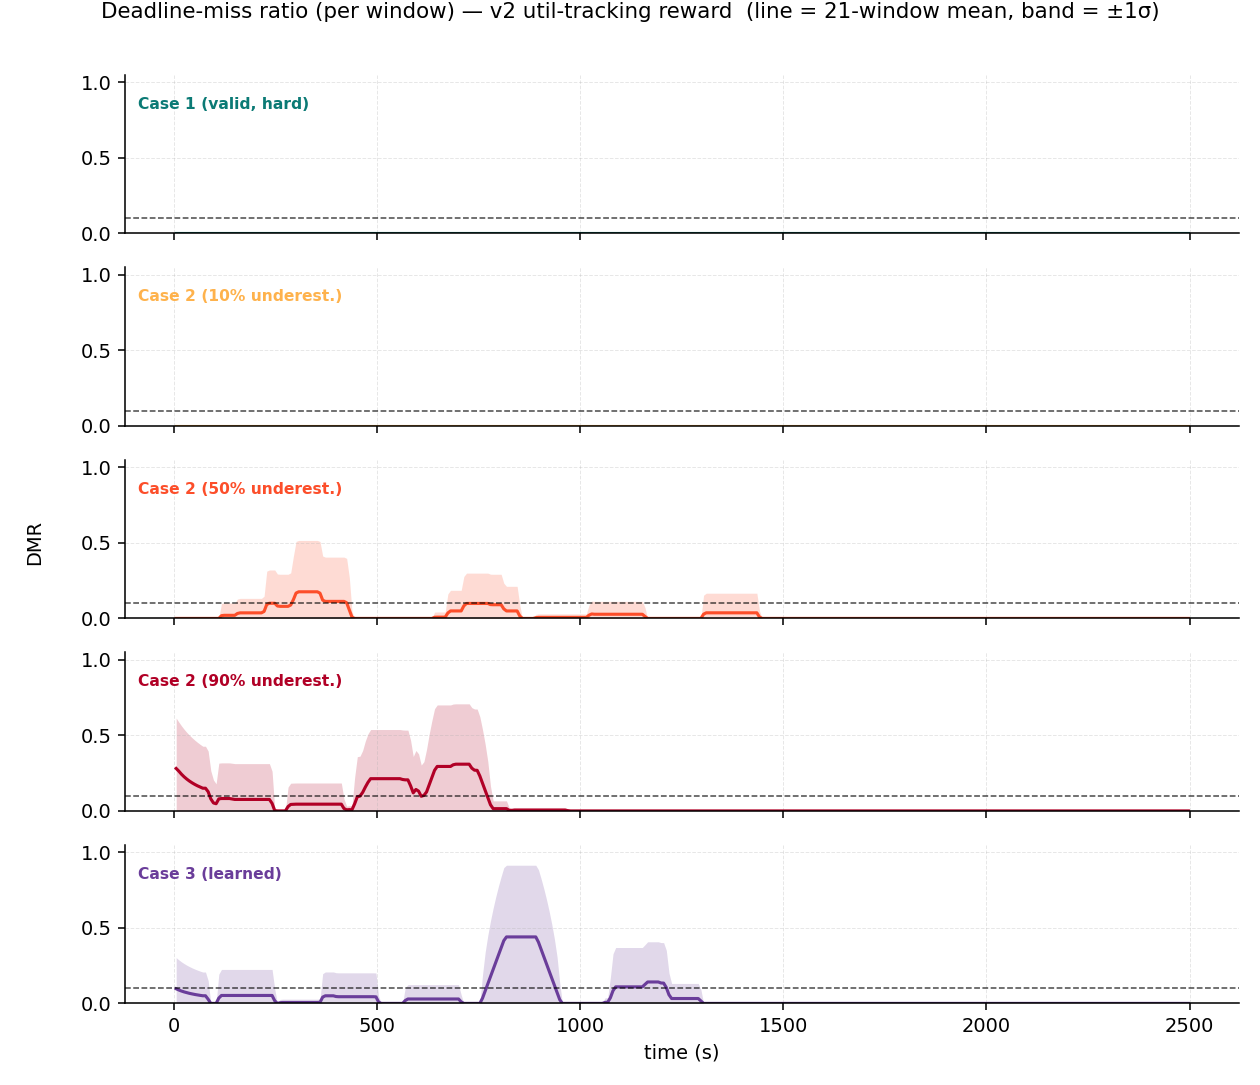
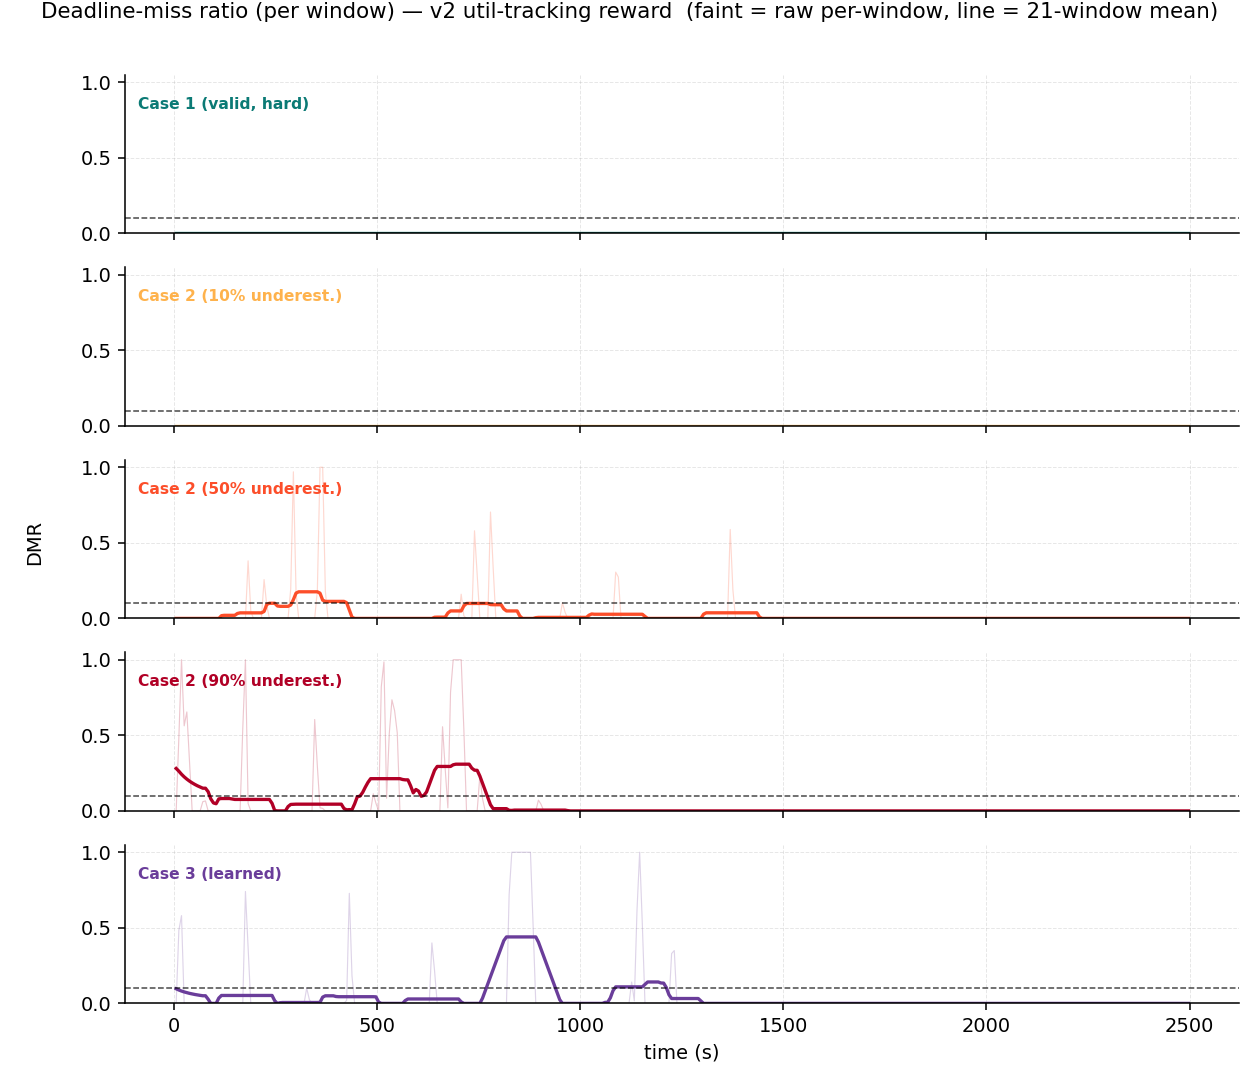
Figures: show true min/max via faint raw per-window line + bold mean
Instead of a windowed min/max band (which plateaus into boxes on spiky data),
overlay the actual per-window signal at low alpha behind the rolling-mean line.
The real extremes (0<->1 spikes) are visible as the raw envelope with no
artificial boxes. Regenerated paper + v2 sets.

diff --git a/scripts/fig_three_cases.py b/scripts/fig_three_cases.py
@@ -167,9 +167,9 @@ def plot():
         fig, axes = plt.subplots(n, 1, figsize=(9, 1.55 * n), sharex=True, sharey=True)
         for ax, (tag, label, color, _) in zip(axes, specs):
             d = data[tag]
-            m, lo, hi = _rollband(d[key])
-            ax.fill_between(d["t"], lo, hi, color=color, alpha=0.20, lw=0)   # range band
-            ax.plot(d["t"], m, color=color, lw=1.6)                           # mean line
+            m, _lo, _hi = _rollband(d[key])
+            ax.plot(d["t"], d[key], color=color, alpha=0.22, lw=0.6)          # raw (true min/max)
+            ax.plot(d["t"], m, color=color, lw=1.7)                           # mean line
             if hline is not None:
                 ax.axhline(hline, color="black", ls="--", lw=0.8, alpha=0.7)
             if ylim:
@@ -181,7 +181,7 @@ def plot():
                 ax.spines[sp].set_visible(False)
         axes[-1].set_xlabel("time (s)")
         fig.supylabel(ylabel, fontsize=10)
-        fig.suptitle(f"{metric_title} — {rlabel}  (line = 21-window mean, band = ±1σ)",
+        fig.suptitle(f"{metric_title} — {rlabel}  (faint = raw per-window, line = 21-window mean)",
                      fontsize=11, y=0.998)
         fig.tight_layout(rect=[0.015, 0, 1, 0.99])
         p = fig_path(key)
